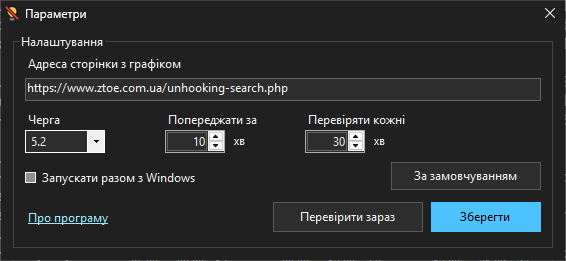
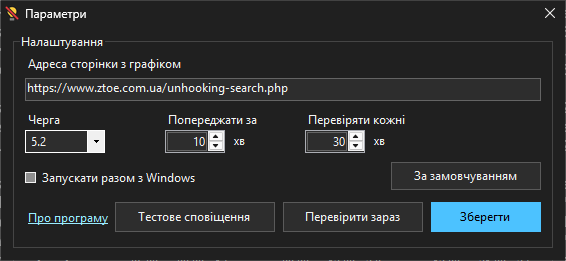
README: test notification button, balloon + notification, one warning per blackout; new Preferences screenshot
Claude-Session: https://claude.ai/code/session_01Jz2EgkL9UyKueeriL1A3ZL

diff --git a/README.md b/README.md
@@ -22,8 +22,9 @@
 1. Програма завантажує сторінку з графіком і знаходить таблицю внизу сторінки.
 2. Червоні клітинки у рядку вашої черги - це періоди без світла. Кілька червоних клітинок поспіль
    програма вважає одним відключенням (наприклад, 14:00–16:00).
-3. За вказану кількість хвилин до початку відключення з'являється сповіщення Windows зі звичайним звуком
-   сповіщення. Воно лишається на екрані, доки ви його не закриєте, і зберігається в центрі сповіщень
+3. За вказану кількість хвилин до початку відключення з'являються спливаюча підказка біля значка в треї
+   і сповіщення Windows зі звичайним звуком. Сповіщення лишається на екрані, доки ви його не закриєте,
+   і зберігається в центрі сповіщень
    Windows (клацніть по годиннику або натисніть **Win + N**), тож його важко пропустити.
    Про кожне відключення програма попереджає **лише один раз**.
 
@@ -101,6 +102,9 @@
 
 - **«Зберегти»** - запам'ятовує налаштування і одразу їх застосовує.
 - **«Перевірити зараз»** - негайно завантажує свіжий графік із сайту.
+- **«Тестове сповіщення»** - показує сповіщення про найближче відключення у вашій черзі (з позначкою «Тест»),
+  щоб перевірити, що сповіщення працюють. Справжні попередження це не змінює: про це відключення програма
+  все одно попередить вчасно.
 - **«За замовчуванням»** - повертає стандартні значення всіх полів (якщо щось налаштували не так).
   Щоб застосувати їх, натисніть **«Зберегти»**.
 
@@ -163,6 +167,9 @@
 ## Якщо сповіщення не з'являються
 
 - Перевірте, що у полі **«Черга»** вибрано саме вашу чергу.
+- Натисніть **«Тестове сповіщення»** у вікні налаштувань: якщо тестове сповіщення з'явилося, сповіщення працюють.
+- Про кожне відключення програма попереджає лише один раз. Якщо ви вже отримали попередження, а потім змінили
+  **«Попереджати за»**, повторного попередження про це відключення не буде.
 - Переконайтеся, що сповіщення Windows увімкнені: **Параметри → Система → Сповіщення**, і що в списку
   програм там увімкнено **UA Blackout Pre-Warning**.
 - Режим **«Не турбувати»** у Windows 11 (у Windows 10 - режим фокусування уваги) може приховувати сповіщення.

diff --git a/docs/DESIGN.md b/docs/DESIGN.md
@@ -1,4 +1,4 @@
-# UABlackoutPreWarning — Design (as built, v1.2.0)
+# UABlackoutPreWarning — Design (as built, v1.3.0)
 
 UABlackoutPreWarning is a portable Windows tray utility. It reads the Zhytomyroblenergo (ZTOE) outage
 schedule and warns the user a set number of minutes before each scheduled blackout, so work can be
@@ -47,7 +47,8 @@ days, and a next outage on another day is labelled ("завтра 09:00–12:00"
 | F8 | All settings saved in the registry (HKCU) on Save and restored at start-up. |
 | F9 | Queue drop-down lists the row labels found on the page. |
 | F10 | Start with Windows via the per-user Run key. |
-| F11 | Standard Windows notification sound. The blackout warning is a toast in the reminder scenario: it stays on screen until dismissed and is kept in the Notifications panel. |
+| F11 | Standard Windows notification sound. Each warning shows the tray balloon and a toast; the toast uses the reminder scenario (stays on screen until dismissed) and is kept in the Notifications panel. |
+| F15 | "Test notification" in the settings window: the same notification for the nearest blackout in the saved queue, marked "Тест:", not remembered (NotifiedSeries unchanged). |
 | F13 | Day/Night switch (sun/moon) in the main window: light or dark theme for all windows and the tray menu, applied and saved at once without Save. |
 | F14 | About window: description, version, links to the author, the manual (README) and GitHub Issues. |
 | F12 | UI language follows Windows: Ukrainian, otherwise English. |
